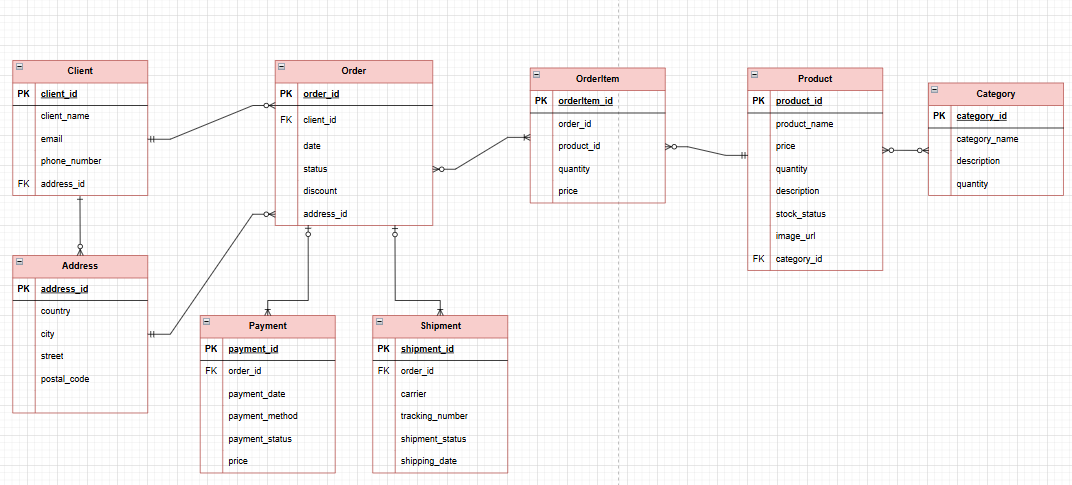
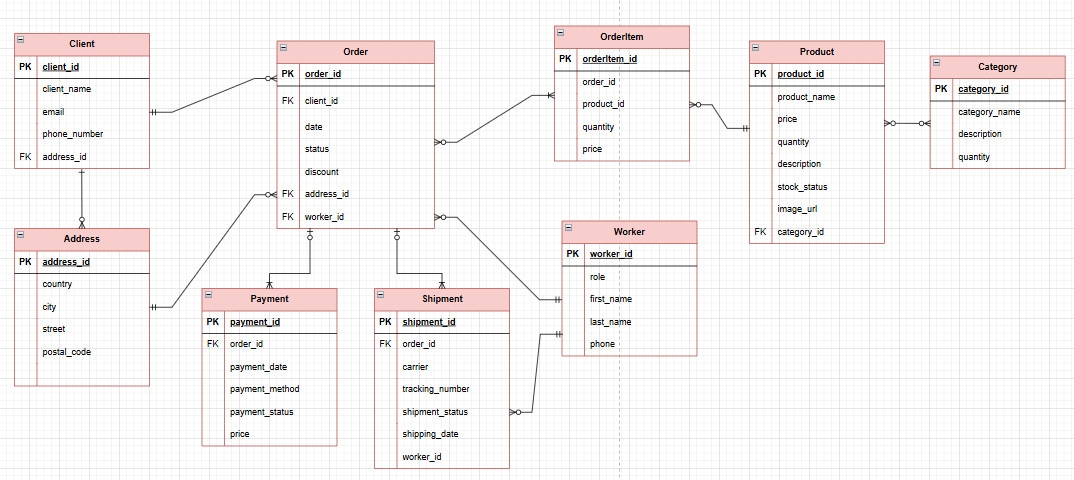
Improved diagram

diff --git a/lab1/README.md b/lab1/README.md
@@ -29,7 +29,14 @@
 -phone_number (не більше 13 символів)
 -adress_id (FK) зв'язок - один до багатьох (адреса може відноситись лише до одного клієнта, але клієнт може мати кілька домашніх адрес)
 
-3. Order (Замовлення)
+3. Worker (Працівник)
+- worker_id (PK)
+- role (admin, manager, operator, courier)
+- first_name
+- last_name
+- phone
+
+4. Order (Замовлення)
 -order_id (PK)
 -client_id (FK), зв'язок - один до багатьох (клієнт може зробити безліч замовлень або не зробити жодного, проте замовлення може належати лише одному клієнту)
 -date
@@ -37,14 +44,15 @@
 -status (confirmed, processing, shipped, delievered, cancelled, refunded)
 -discount
 -address_id (FK), зв'язок - один до багатьох (адреса може бути одна й та сама в багатьох замовленнях або взагалі не використовуватися, проте замовлення має одну фіксовану адресу)
+-worker_id (FK), зв'язок - один до багатьох (менеджер може приймати кілька замовлень або жодного, але замовлення закрплене за одним менеджером)
 
-4. Category (Категорія)
+5. Category (Категорія)
 -category_id (PK)
 -category_name
 -description
 -quantity
 
-5. Product (Товар)
+6. Product (Товар)
 -product_id (PK)
 -product_name
 -price
@@ -54,13 +62,13 @@
 -image_url
 -category_id (FK) зв'язок - багато до багатьох(продукт може відноситись до кількох категорій, категорія може вміщувати кілька продуктів) 
 
-6. OrderItem (Позиція замовлення)
+7. OrderItem (Позиція замовлення)
 -orderItem_id (PK)
 -order_id (FK) зв'язок - багато до багатьох(замовлення може містити багато позицій і одна позиція може бути в кількох замовленнях)
 -product_id (FK) зв'язок - один до багатьох(позиція вміщує лише один товар, проте товар може бути в кількох позиціях замовлення)
 -quantity
 
-7. Payment (Платіж)
+8. Payment (Платіж)
 -payment_id (PK)
 -order_id (FK) зв'язок - один до багатьох(оплата стосується лише одного замовлення, але можуть бути ситуації, коли замовлення надто велике і оплата частинами, тому їх може бути одна або декілька)
 -payment_date
@@ -68,10 +76,11 @@
 -payment_status(paid/ not paid)
 -price
 
-8. Shipment (Доставка)
+9. Shipment (Доставка)
 -shipment_id (PK)
 -order_id (FK) зв'язок - один до багатьох(доставка стосується лише одного замовлення, але якщо замовлення надто велике , то його можуть відправляти партіями, тому доставка може бути одна або декілька)
 -carrier
+- worker_id (FK) , зв'язок - один до багатьох(доставка може мати лише одного кур'єра, але кур'єр може мати декілька доставок)
 -tracking_number
 -shipment_status
 -shipping_date
